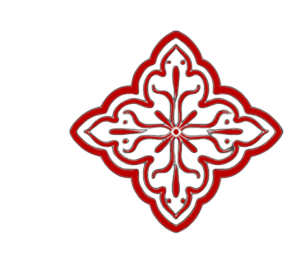
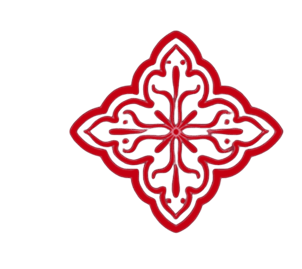
aa

Changed region(s): [[0.2086, 0.0892, 0.9536, 0.8625]]

diff --git a/index.html b/index.html
@@ -233,6 +233,13 @@
         }
         .hero-bg-slide.active { opacity: 1; }
 
+        /* CARRUSEL DE FOTOS DE LA ARTISTA (CROSSFADE) */
+        .artista-slide-img {
+            opacity: 0;
+            transition: opacity 1.2s ease-in-out, transform 0.7s ease;
+        }
+        .artista-slide-img.active { opacity: 1; }
+
         /* EFECTO DE APARICIÓN AL HACER SCROLL */
         .scroll-reveal {
             opacity: 0;
@@ -414,8 +421,9 @@
                     
                     <div class="md:col-span-5 relative group">
                         <div class="absolute -inset-1.5 bg-gradient-to-tr from-yorkaAccent via-yorkaGold to-yorkaAccent rounded-3xl blur-md opacity-30 group-hover:opacity-60 transition duration-700"></div>
-                        <div class="relative rounded-3xl overflow-hidden border border-yorkaGold/50 shadow-2xl bg-yorkaPanel aspect-[4/5] max-h-[500px]">
-                            <img src="assets/artista.jpg" alt="Yorka - Tatuadora de Autor" class="w-full h-full object-cover group-hover:scale-105 transition-transform duration-700" onerror="this.onerror=null; this.src='assets/artista.jpeg';">
+                        <div id="artista-photo-carousel" class="relative rounded-3xl overflow-hidden border border-yorkaGold/50 shadow-2xl bg-yorkaPanel aspect-[4/5] max-h-[500px]">
+                            <img src="assets/artista.jpg" alt="Yorka - Tatuadora de Autor" class="artista-slide-img active absolute inset-0 w-full h-full object-cover group-hover:scale-105" onerror="this.onerror=null; this.src='assets/artista.jpeg';">
+                            <img src="assets/artista2.jpg" alt="Yorka - Tatuadora de Autor" class="artista-slide-img absolute inset-0 w-full h-full object-cover group-hover:scale-105">
                             <div class="absolute inset-0 bg-gradient-to-t from-black/80 via-transparent to-transparent"></div>
                             <div class="absolute bottom-5 left-5 right-5 text-center">
                                 <span class="block font-serif text-2xl text-white font-medium">Yorka</span>
@@ -3333,6 +3341,20 @@
     function nextSlide() { showSlide((currentSlide + 1) % slides.length); }
     function prevSlide() { showSlide((currentSlide - 1 + slides.length) % slides.length); }
     function goToSlide(index) { showSlide(index); }
+
+    /* ROTACIÓN DE FOTOS DE LA ARTISTA (CROSSFADE CADA 3 SEGUNDOS) */
+    (function initArtistaPhotoCarousel() {
+        const container = document.getElementById('artista-photo-carousel');
+        if (!container) return;
+        const slides = container.querySelectorAll('.artista-slide-img');
+        if (slides.length < 2) return;
+        let idx = 0;
+        setInterval(() => {
+            slides[idx].classList.remove('active');
+            idx = (idx + 1) % slides.length;
+            slides[idx].classList.add('active');
+        }, 3000);
+    })();
 
     /* ROTACIÓN DE IMÁGENES DE FONDO EN EL HERO */
     (function initHeroBackgroundCarousel() {
